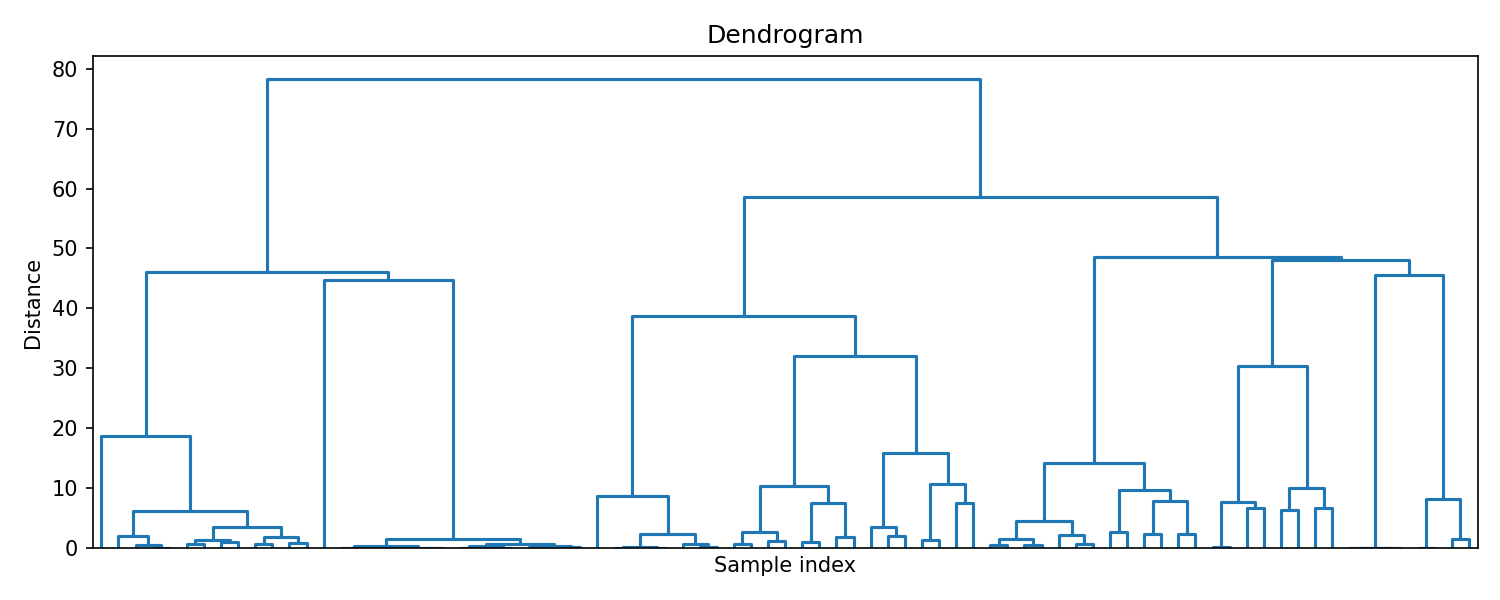
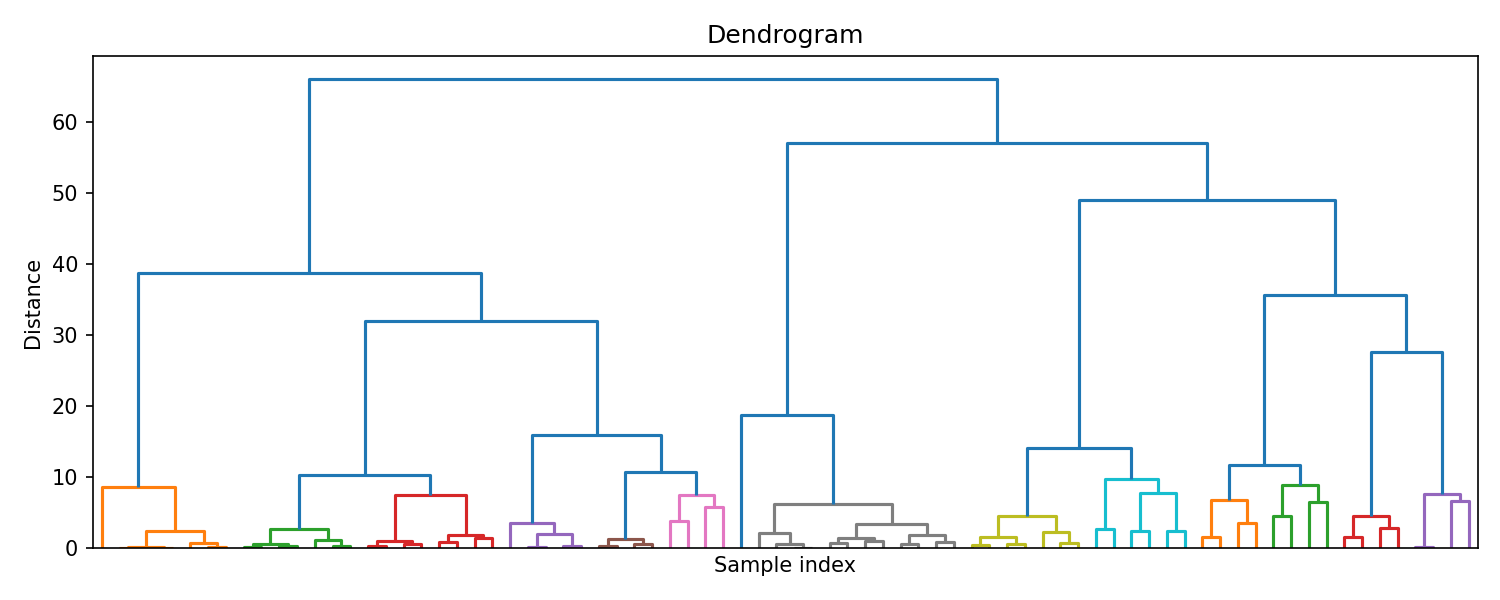
Organisation

diff --git a/apps/src/preprocessing.py b/apps/src/preprocessing.py
@@ -1,27 +1,32 @@
 import pandas as pd
+from sklearn.compose import ColumnTransformer
+from sklearn.pipeline import Pipeline
 from sklearn.preprocessing import OneHotEncoder, StandardScaler
 from data_loader import get_tp_features
 
 
 def preprocess_data(df, include_proto=True):
-
     X = get_tp_features(df, include_proto=include_proto).copy()
+    num_cols = X.select_dtypes(include=["number"]).columns.tolist()
+    cat_cols = X.select_dtypes(exclude=["number"]).columns.tolist()
 
-    if include_proto and "proto" in X.columns:
-        proto_col = X[["proto"]]
-        X_numeric = X.drop(columns=["proto"])
+    try:
+        encoder = OneHotEncoder(handle_unknown="ignore", sparse_output=False)
+    except TypeError:
+        encoder = OneHotEncoder(handle_unknown="ignore", sparse=False)
 
-        try:
-            encoder = OneHotEncoder(handle_unknown="ignore", sparse_output=False)
-        except TypeError:
-            encoder = OneHotEncoder(handle_unknown="ignore", sparse=False)
+    preprocessor = ColumnTransformer([
+        ("num", Pipeline([
+            ("scaler", StandardScaler())
+        ]), num_cols),
+        ("cat", Pipeline([
+            ("encoder", encoder)
+        ]), cat_cols)
+    ])
 
-        proto_encoded = encoder.fit_transform(proto_col)
-        proto_feature_names = encoder.get_feature_names_out(["proto"])
-        proto_df = pd.DataFrame(proto_encoded, columns=proto_feature_names, index=X.index)
-        X = pd.concat([X_numeric, proto_df], axis=1)
+    X_processed = preprocessor.fit_transform(X)
 
-    scaler = StandardScaler()
-    X_scaled = scaler.fit_transform(X)
+    if hasattr(X_processed, "toarray"):
+        X_processed = X_processed.toarray()
 
-    return X_scaled, scaler
+    return X_processed, preprocessor

diff --git a/apps/src/agglomerative.py b/apps/src/agglomerative.py
@@ -1,12 +1,17 @@
 from pathlib import Path
+from sklearn.compose import ColumnTransformer
+from sklearn.compose import ColumnTransformer
 from sklearn.decomposition import PCA
 import matplotlib
+from sklearn.preprocessing import OneHotEncoder
 matplotlib.use("Agg")
 import matplotlib.pyplot as plt
 import numpy as np
 from scipy.cluster.hierarchy import dendrogram, fcluster, linkage
 from sklearn.cluster import AgglomerativeClustering
 from sklearn.metrics import silhouette_score
+from sklearn.pipeline import Pipeline
+from sklearn.preprocessing import StandardScaler, OneHotEncoder
 
 
 
@@ -53,7 +58,7 @@ def save_dendrogram(Z, output_path, p=6):
     output_file.parent.mkdir(parents=True, exist_ok=True)
 
     plt.figure(figsize=(10, 4))
-    dendrogram(Z, truncate_mode="level", p=p, no_labels=True, color_threshold=0)
+    dendrogram(Z, truncate_mode="level", p=p, no_labels=True, color_threshold=10)
     plt.title("Dendrogram")
     plt.xlabel("Sample index")
     plt.ylabel("Distance")
@@ -73,6 +78,18 @@ def save_silhouette(X, labels):
 if __name__ == "__main__":
     df = load_data("testing").head(1000)
     X, scaler = preprocess_data(df, include_proto=True)
+#     num_cols = df.select_dtypes(include=["int64", "float64"]).columns
+#     cat_cols = df.select_dtypes(include=["string"]).columns
+
+#     preprocessor = ColumnTransformer([
+#     ('num', Pipeline([
+#         ('scaler',  StandardScaler())
+#     ]), num_cols),
+#     ('cat', Pipeline([
+#         ('encoder', OneHotEncoder(handle_unknown='ignore'))
+#     ]), cat_cols)
+# ])
+    # X = preprocessor.fit_transform(df)
     X = ensure_dense_matrix(X)
 
     sample_size = min(2000, X.shape[0])

diff --git a/apps/src/dbscan.py b/apps/src/dbscan.py
@@ -35,6 +35,7 @@ print(df.describe())
 # * spkts : nombre de paquets source
 # * dpkts : nombre de paquets destination
 # * rate : taux de transfert
+# features = get_tp_features(df, include_proto=False).columns.tolist()
 
 features = ['dur', 'sbytes', 'dbytes', 'spkts', 'dpkts', 'rate', 'sttl', 'dttl']
 df = df[features] 
